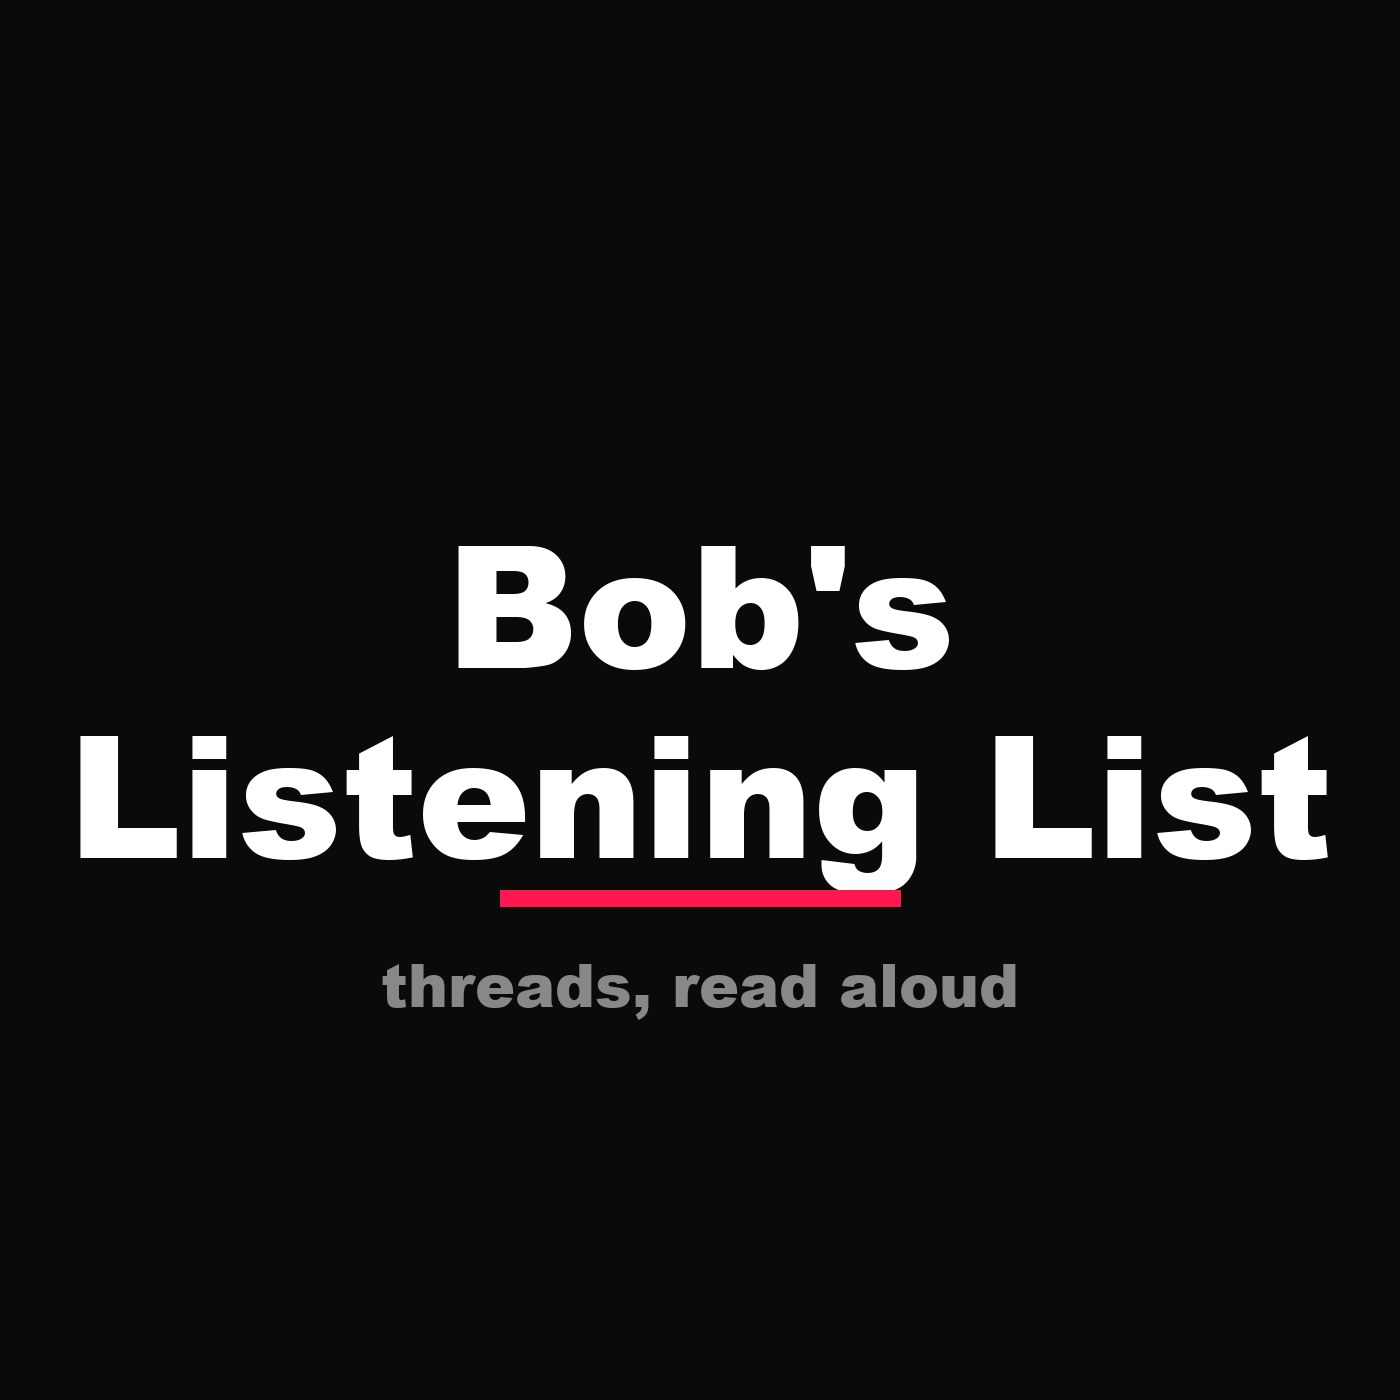
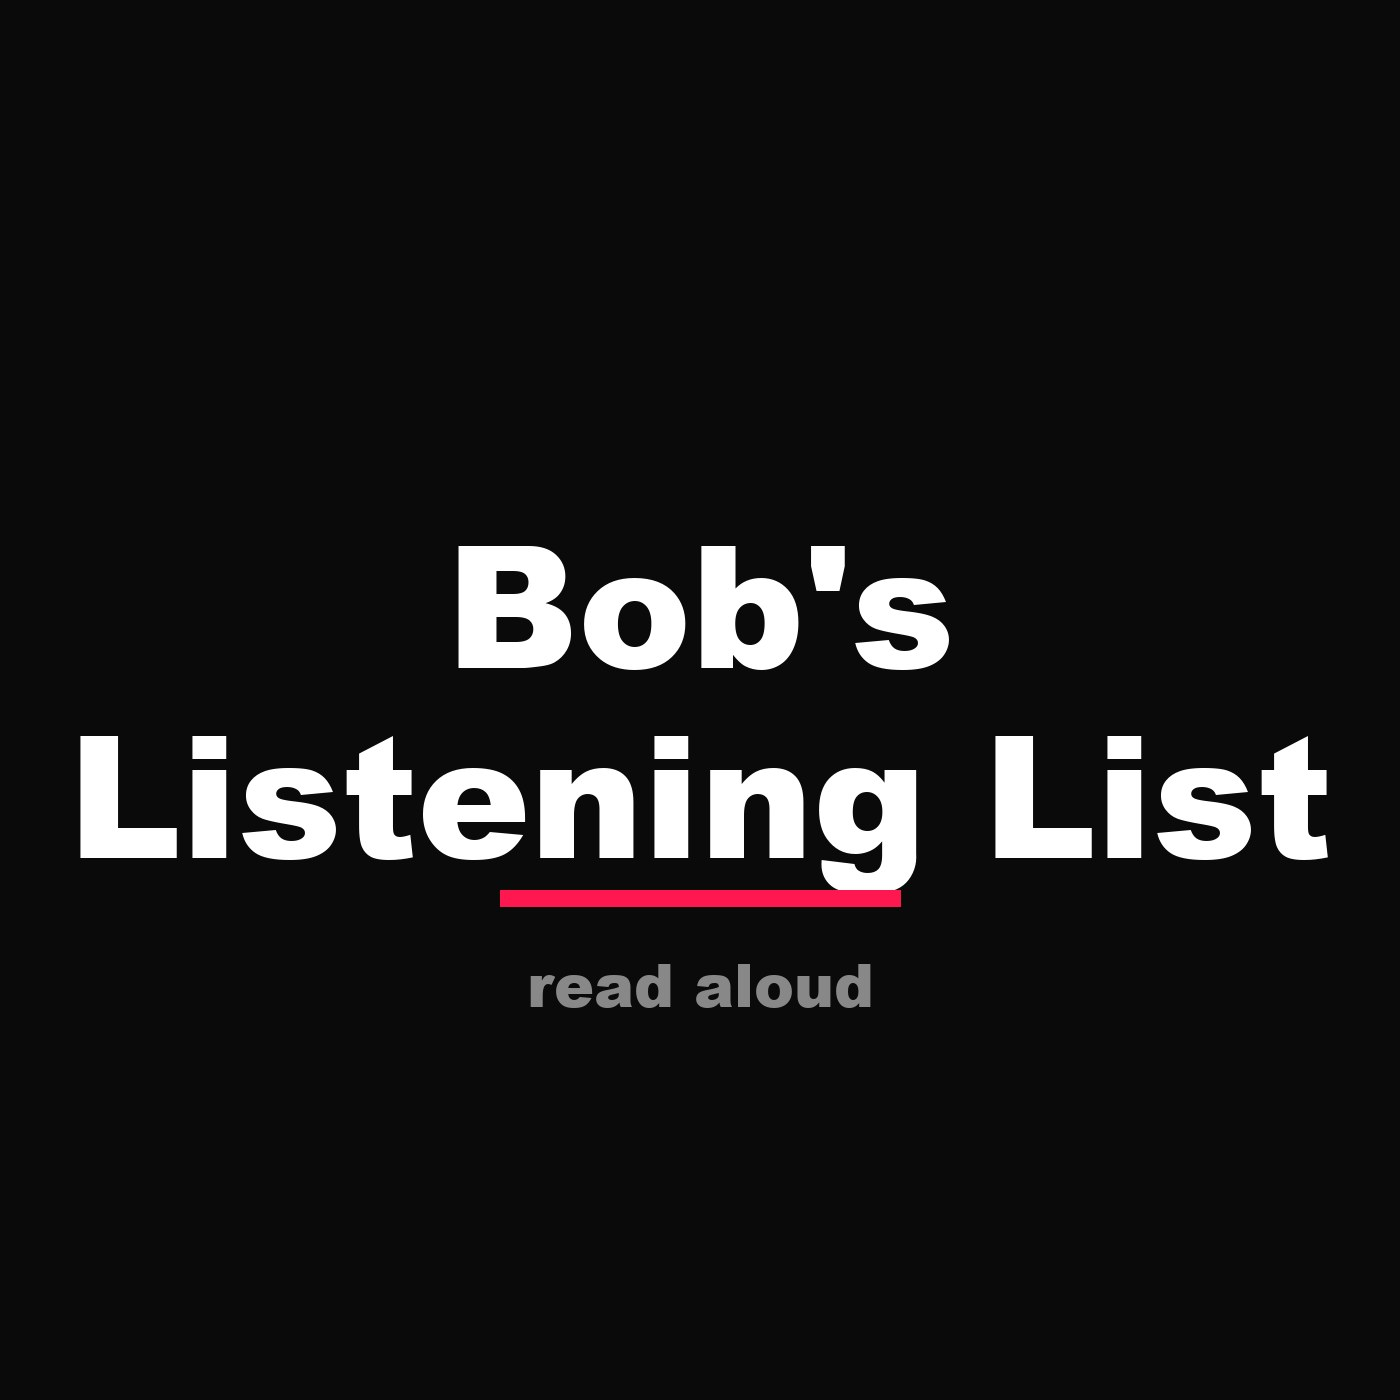
Cover + landing: generic subtitle (articles too, not just threads)

Changed region(s): [[0.2764, 0.6757, 0.7371, 0.7371]]

diff --git a/index.html b/index.html
@@ -19,7 +19,7 @@
 <body>
   <img src="cover.jpg" alt="cover">
   <h1>Bob's Listening List</h1>
-  <div class="muted">threads, read aloud</div>
+  <div class="muted">read aloud</div>
   <div class="accent"></div>
   <div class="card">
     <p>Personal podcast feed — threads and articles converted to audio.</p>
